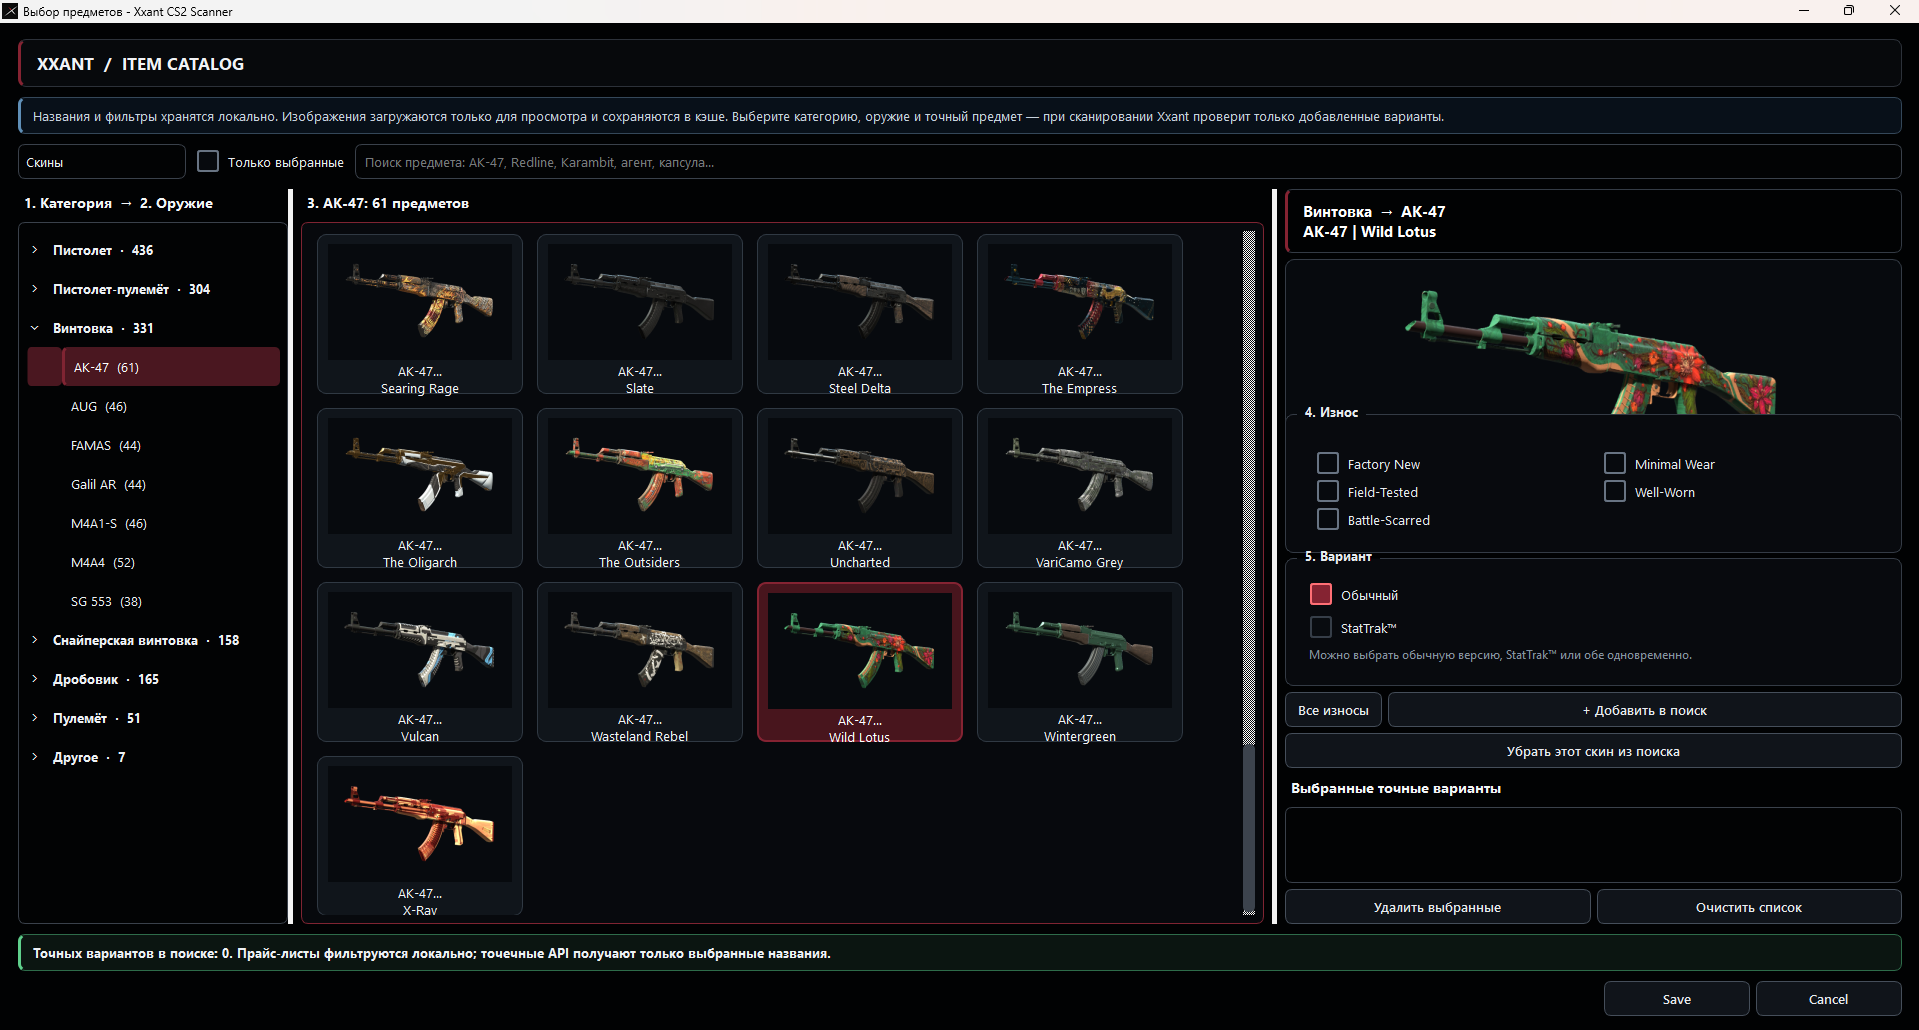
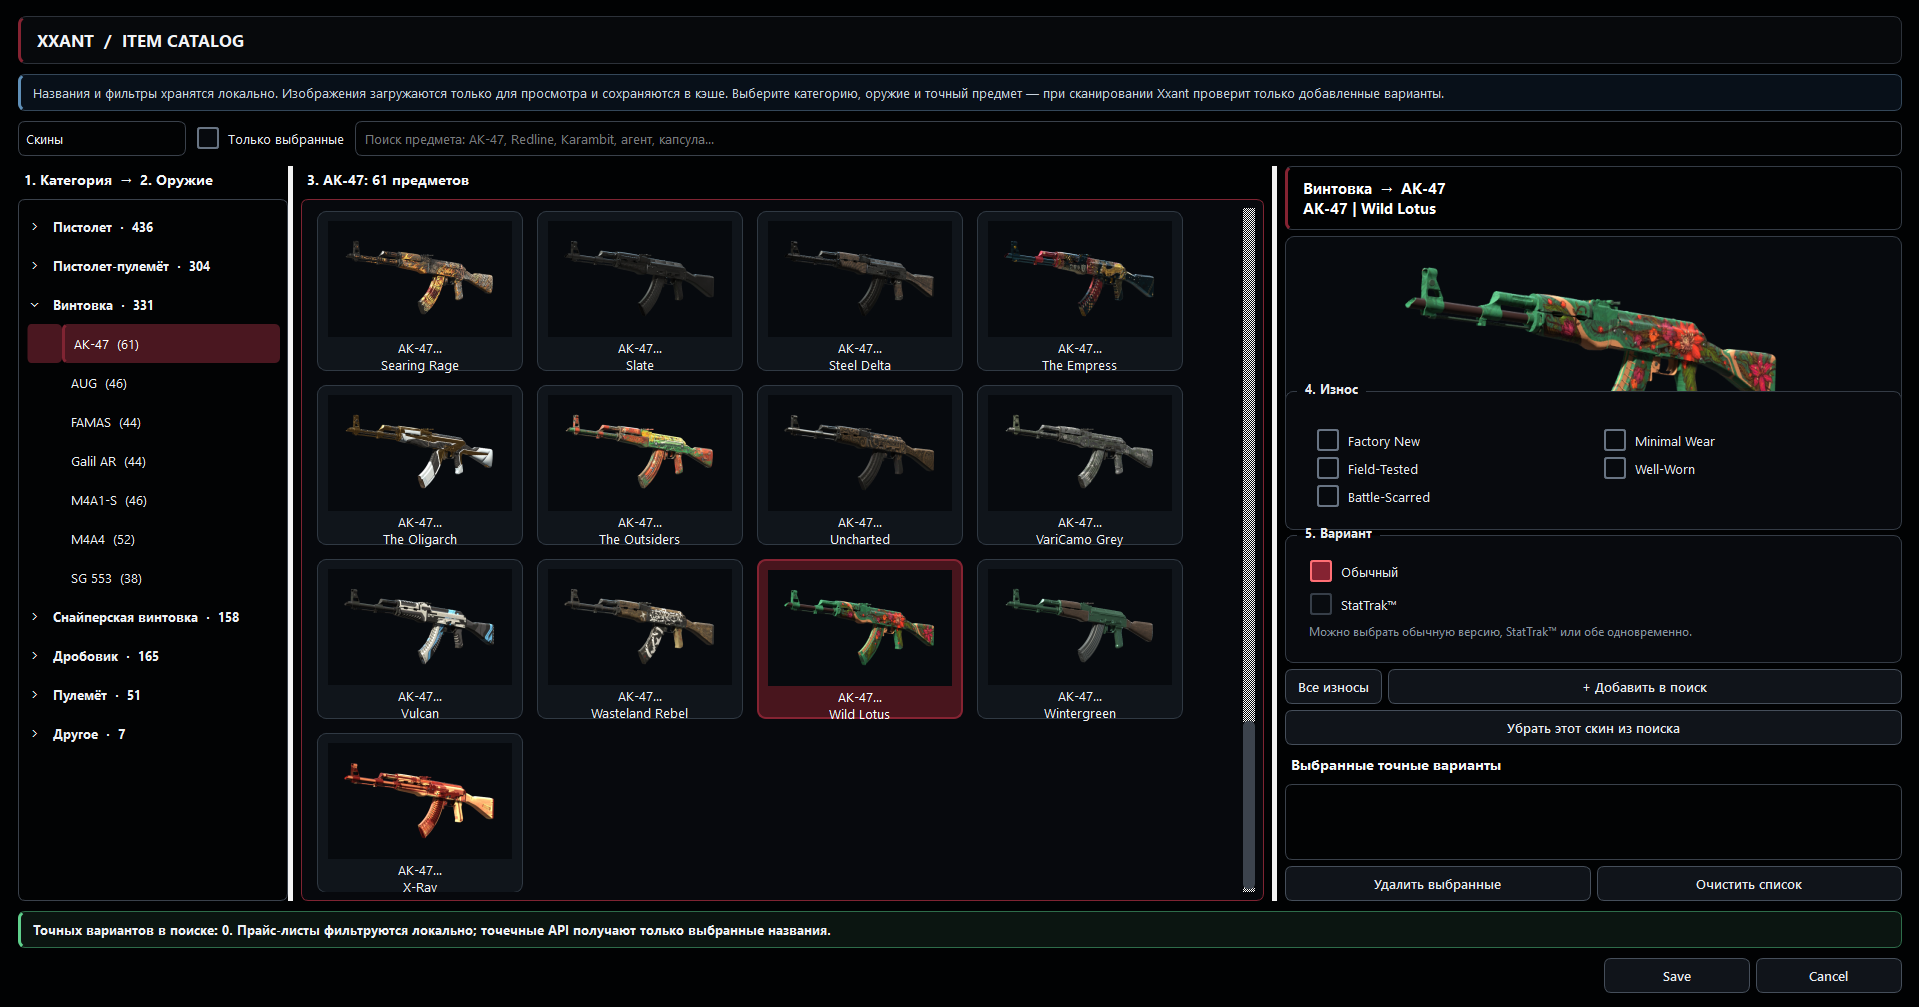
Add site contacts and crop screenshots

diff --git a/index.html b/index.html
@@ -160,7 +160,14 @@
 
   <footer>
     <div class="footer-brand"><img src="site-assets/xxant-logo.png" alt="Xxant"><p data-ru="Независимый инструмент анализа рынка предметов CS2." data-en="Independent CS2 item market analytics software.">Независимый инструмент анализа рынка предметов CS2.</p></div>
-    <div class="footer-links"><a href="guide.html" data-ru="Руководство" data-en="Guide">Руководство</a><a href="terms.html" data-ru="Условия" data-en="Terms">Условия</a><a href="privacy.html" data-ru="Конфиденциальность" data-en="Privacy">Конфиденциальность</a></div>
+    <div class="footer-links">
+      <a href="guide.html" data-ru="Руководство" data-en="Guide">Руководство</a>
+      <a href="terms.html" data-ru="Условия" data-en="Terms">Условия</a>
+      <a href="privacy.html" data-ru="Конфиденциальность" data-en="Privacy">Конфиденциальность</a>
+      <a href="https://t.me/XxantScanner" target="_blank" rel="noopener noreferrer" data-ru="Telegram-канал" data-en="Telegram channel">Telegram-канал</a>
+      <a href="https://t.me/XxantSupport" target="_blank" rel="noopener noreferrer" data-ru="Поддержка" data-en="Support">Поддержка</a>
+      <a href="mailto:xxantsupport@gmail.com">xxantsupport@gmail.com</a>
+    </div>
     <p class="legal" data-ru="Xxant не связан с Valve Corporation. Counter-Strike, CS2, Steam и связанные материалы принадлежат соответствующим правообладателям. Названия площадок используются только для идентификации источников данных." data-en="Xxant is not affiliated with Valve Corporation. Counter-Strike, CS2, Steam, and related materials belong to their respective owners. Marketplace names are used only to identify data sources.">Xxant не связан с Valve Corporation. Counter-Strike, CS2, Steam и связанные материалы принадлежат соответствующим правообладателям. Названия площадок используются только для идентификации источников данных.</p>
     <span class="copyright">© 2026 Xxant</span>
   </footer>
